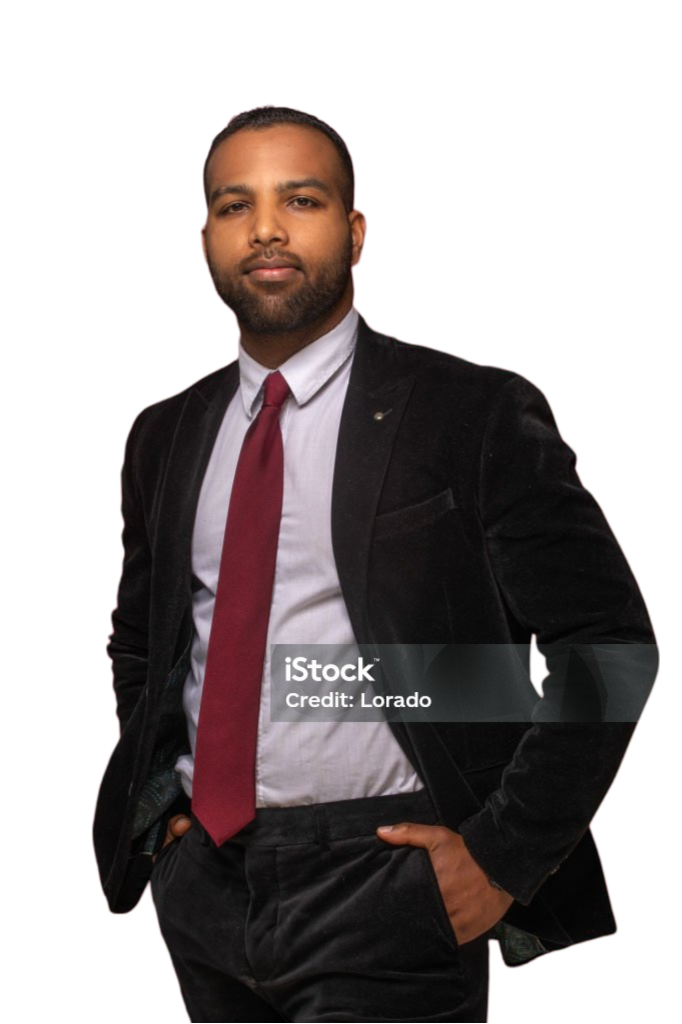
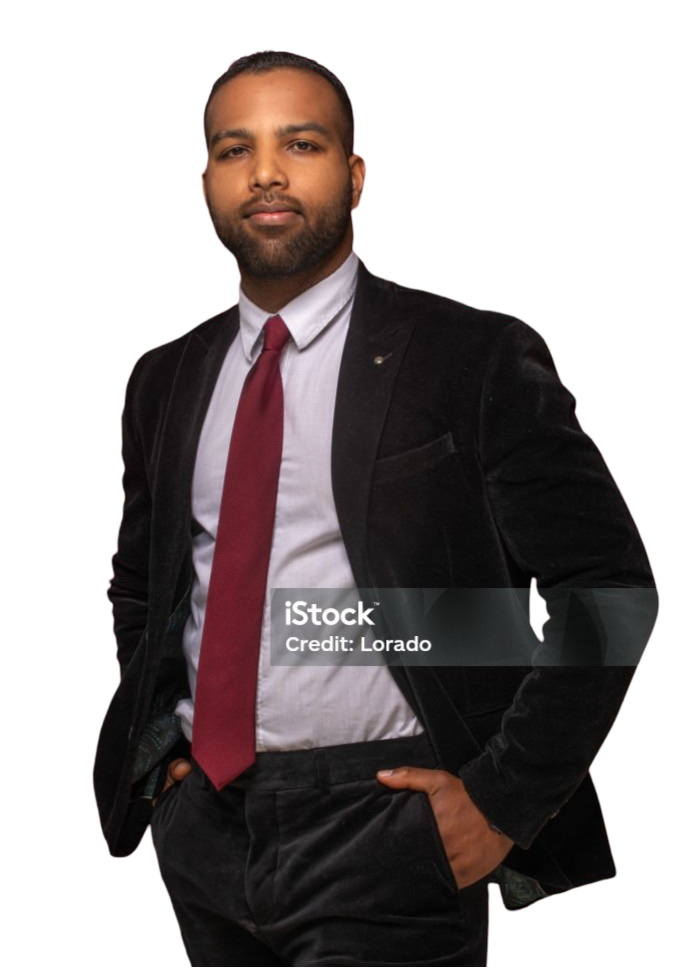
updating

diff --git a/src/styles/main.css b/src/styles/main.css
@@ -16,7 +16,7 @@ h1 {
   font-weight: 600 !important; /* Bold for emphasis */
   color: #00262b;
   line-height: 1 !important;
-  font-size: clamp(36px, 6vw, 68px) !important;
+  font-size: clamp(36px, 7vw, 68px) !important;
   margin-bottom: 0.5rem !important;
 }
 
@@ -24,7 +24,7 @@ h2 {
   font-family: "Segoe UI", Tahoma, Geneva, Verdana, sans-serif;
   font-weight: 400 !important;
   line-height: 1 !important;
-  font-size: clamp(30px, 4vw, 58px) !important;
+  font-size: clamp(30px, 6vw, 60px) !important;
   margin-bottom: 1rem !important;
 }
 
@@ -94,6 +94,9 @@ textarea:focus {
 @media (min-width: 768px) {
   .navbar {
     margin-top: 0.9rem;
+  }
+  .navbar .container {
+    max-width: 700px;
   }
 }
 
@@ -222,7 +225,7 @@ textarea:focus {
 @media (min-width: 768px) {
   .hero-content {
     flex-direction: row;
-    justify-content: center;
+    justify-content: flex-start;
   }
 }
 @media (max-width: 768px) {
@@ -246,28 +249,34 @@ textarea:focus {
 }
 @media (max-width: 768px) {
   .content-2334 {
-    width: 100%;
     max-width: 600px;
   }
 }
 
 .image_2334 {
-  max-height: 710px;
   display: flex;
   justify-content: center;
 }
 @media (min-width: 992px) {
   .image_2334 .photo_2334 {
-    max-width: 100%;
+    max-width: 650px;
     height: 100%;
+    -o-object-fit: contain;
+       object-fit: contain;
+  }
+}
+@media (min-width: 768px) {
+  .image_2334 .photo_2334 {
+    max-width: 600px;
+    height: auto;
     -o-object-fit: contain;
        object-fit: contain;
   }
 }
 @media (min-width: 425px) {
   .image_2334 .photo_2334 {
-    width: 100%;
-    height: 100%;
+    max-width: 600px;
+    height: auto;
   }
 }
 @media (max-width: 425px) {
@@ -333,11 +342,15 @@ textarea:focus {
 }
 @media (max-width: 768px) {
   .btn_2334 {
-    justify-content: center;
-    flex-wrap: wrap;
+    justify-content: start;
   }
   .btn_2334 .btn {
     max-width: 100%;
+  }
+}
+@media (max-width: 425px) {
+  .btn_2334 {
+    flex-wrap: wrap;
   }
 }
 

diff --git a/src/styles/scss/_home.scss b/src/styles/scss/_home.scss
@@ -30,7 +30,7 @@
 
   @include media-query("md", "min") {
     flex-direction: row;
-    justify-content: center;
+    justify-content: flex-start;
   }
 
   @include media-query("md", "max") {
@@ -51,24 +51,27 @@
   }
 
   @include media-query("md", "max") {
-    width: 100%;
     max-width: 600px;
   }
 }
 
 .image_2334 {
-  max-height: 710px;
   display: flex;
   justify-content: center;
   .photo_2334 {
     @include media-query("lg", "min") {
-      max-width: 100%;
+      max-width: 650px;
       height: 100%;
       object-fit: contain;
     }
+    @include media-query("md", "min") {
+      max-width: 600px;
+      height: auto;
+      object-fit: contain;
+    }
     @include media-query("sm", "min") {
-      width: 100%;
-      height: 100%;
+      max-width: 600px;
+      height: auto;
     }
 
     @include media-query("sm", "max") {
@@ -139,11 +142,13 @@
   }
 
   @include media-query("md", "max") {
-    justify-content: center;
-    flex-wrap: wrap;
+    justify-content: start;
 
     .btn {
       max-width: 100%;
     }
+  }
+  @include media-query("sm", "max") {
+    flex-wrap: wrap;
   }
 }

diff --git a/src/styles/scss/main.scss b/src/styles/scss/main.scss
@@ -10,7 +10,7 @@ h1 {
   font-weight: 600 !important; /* Bold for emphasis */
   color: $color-text-primary;
   line-height: 1 !important;
-  font-size: clamp(36px, 6vw, 68px) !important;
+  font-size: clamp(36px, 7vw, 68px) !important;
   margin-bottom: 0.5rem !important;
 }
 
@@ -18,7 +18,7 @@ h2 {
   font-family: $font-family-main;
   font-weight: 400 !important;
   line-height: 1 !important;
-  font-size: clamp(30px, 4vw, 58px) !important;
+  font-size: clamp(30px, 6vw, 60px) !important;
   margin-bottom: 1rem !important;
 }
 h4,

diff --git a/src/styles/scss/_navbar.scss b/src/styles/scss/_navbar.scss
@@ -22,6 +22,9 @@
   }
   @include media-query("md", "min") {
     margin-top: 0.9rem;
+    .container {
+      max-width: 700px;
+    }
   }
 }
 
